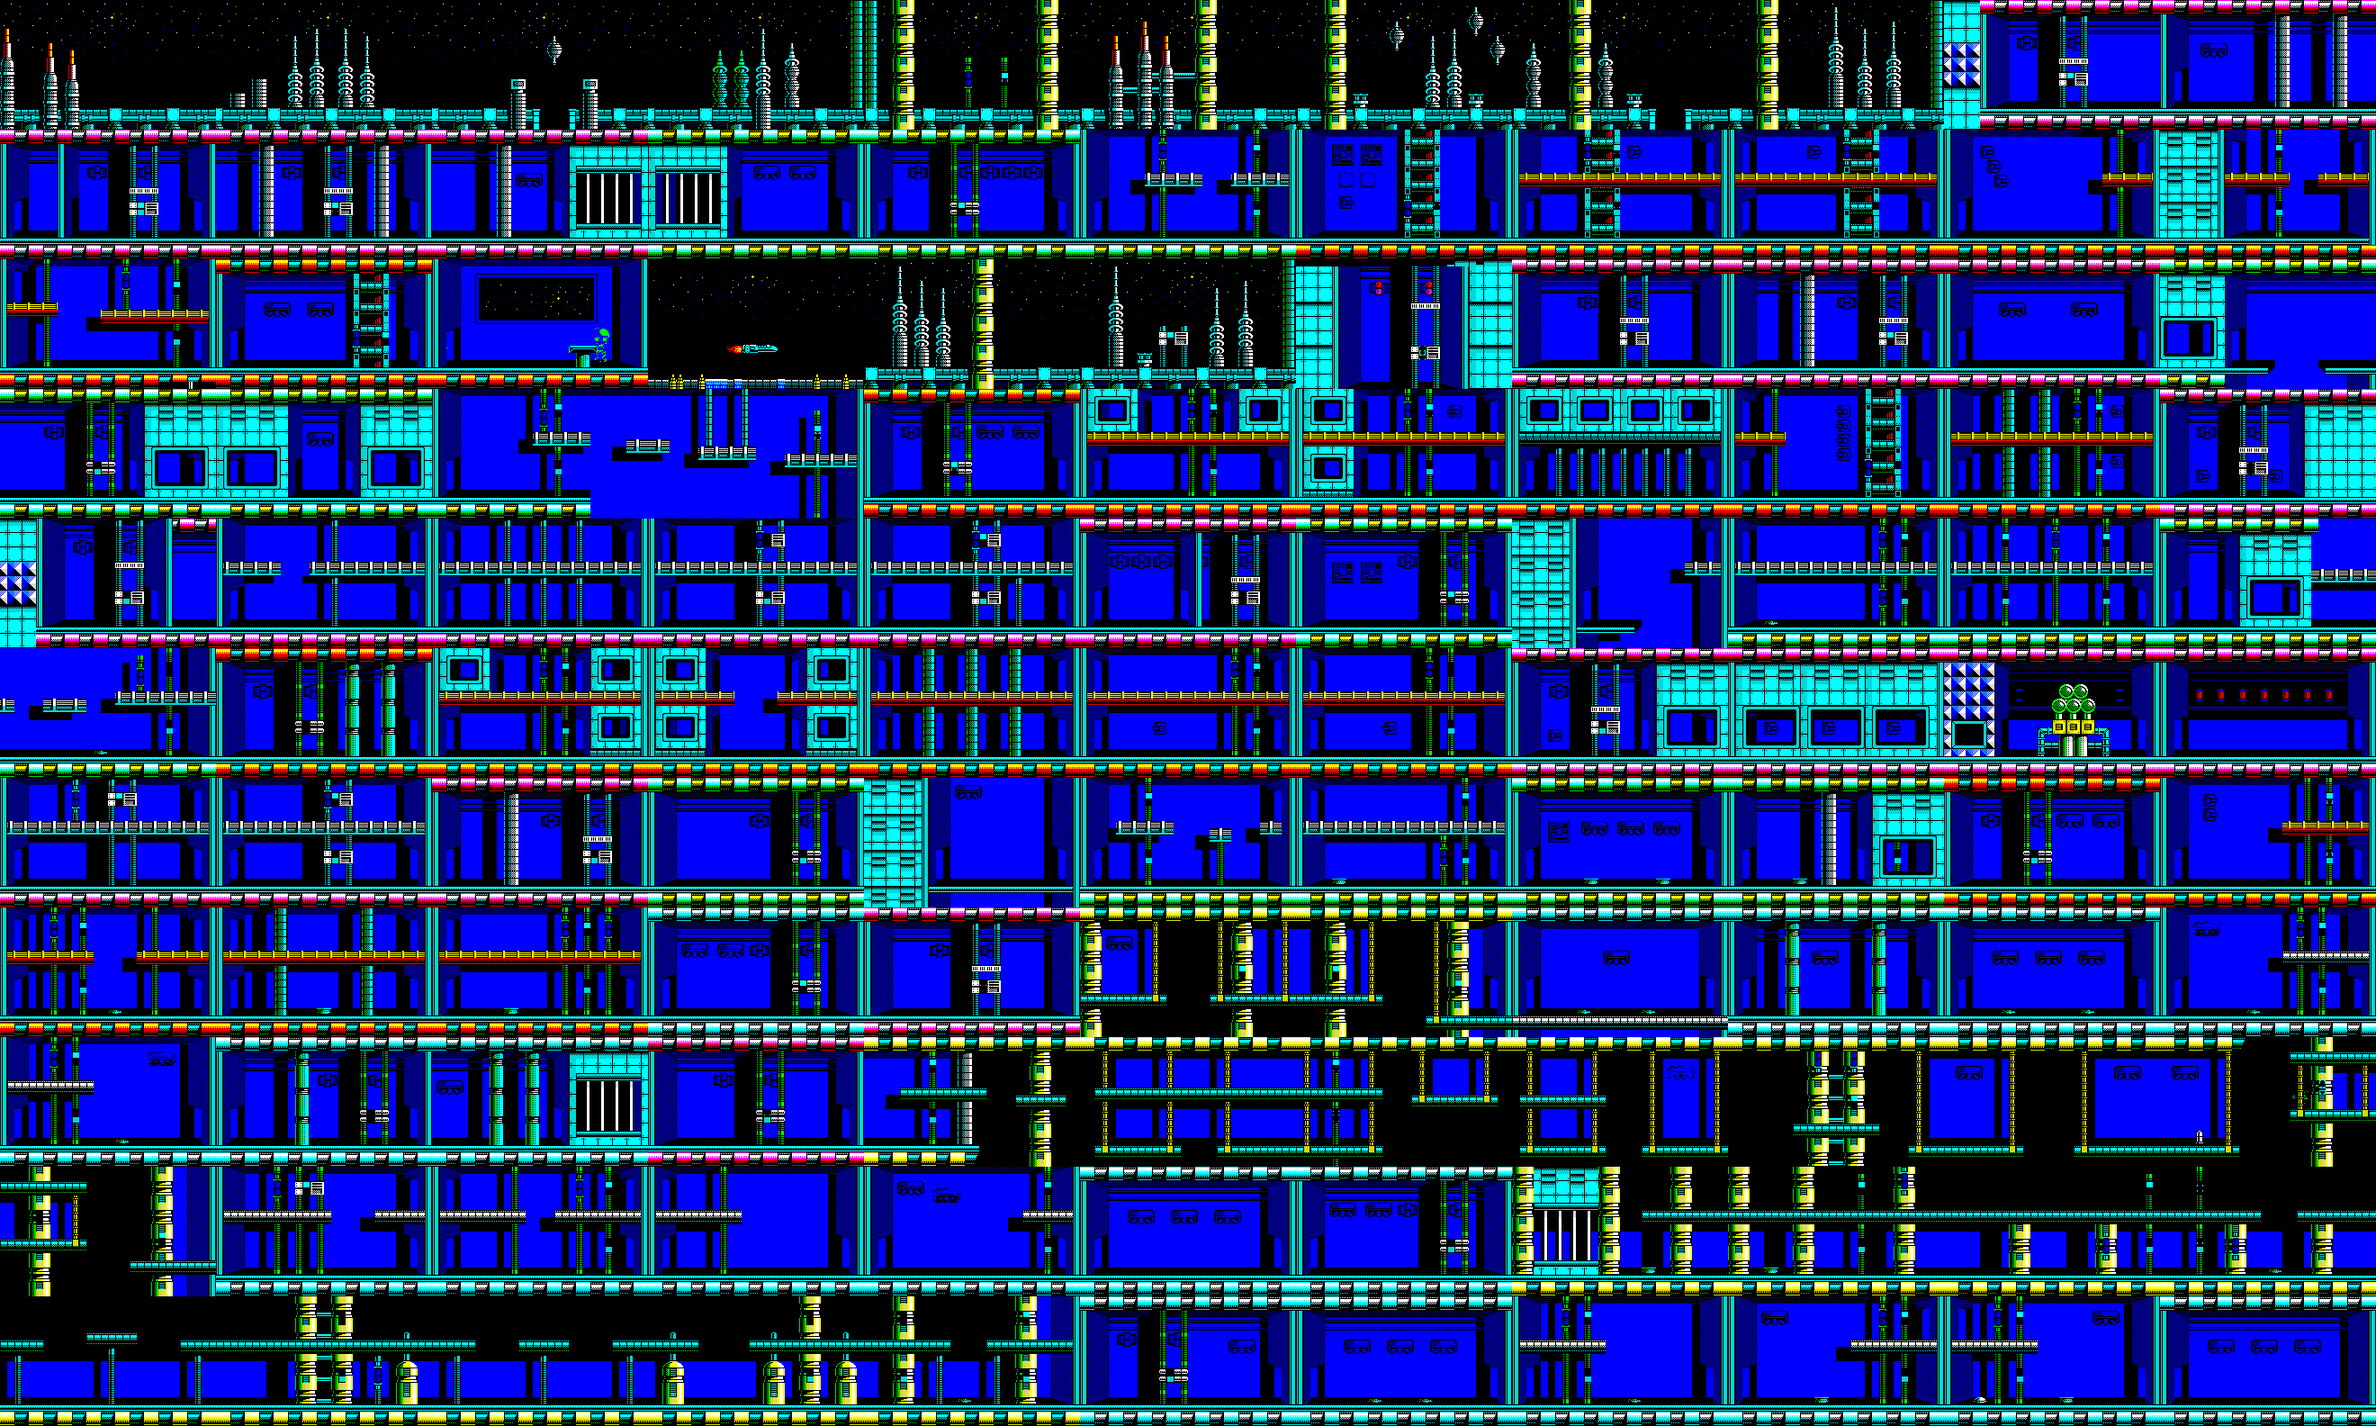
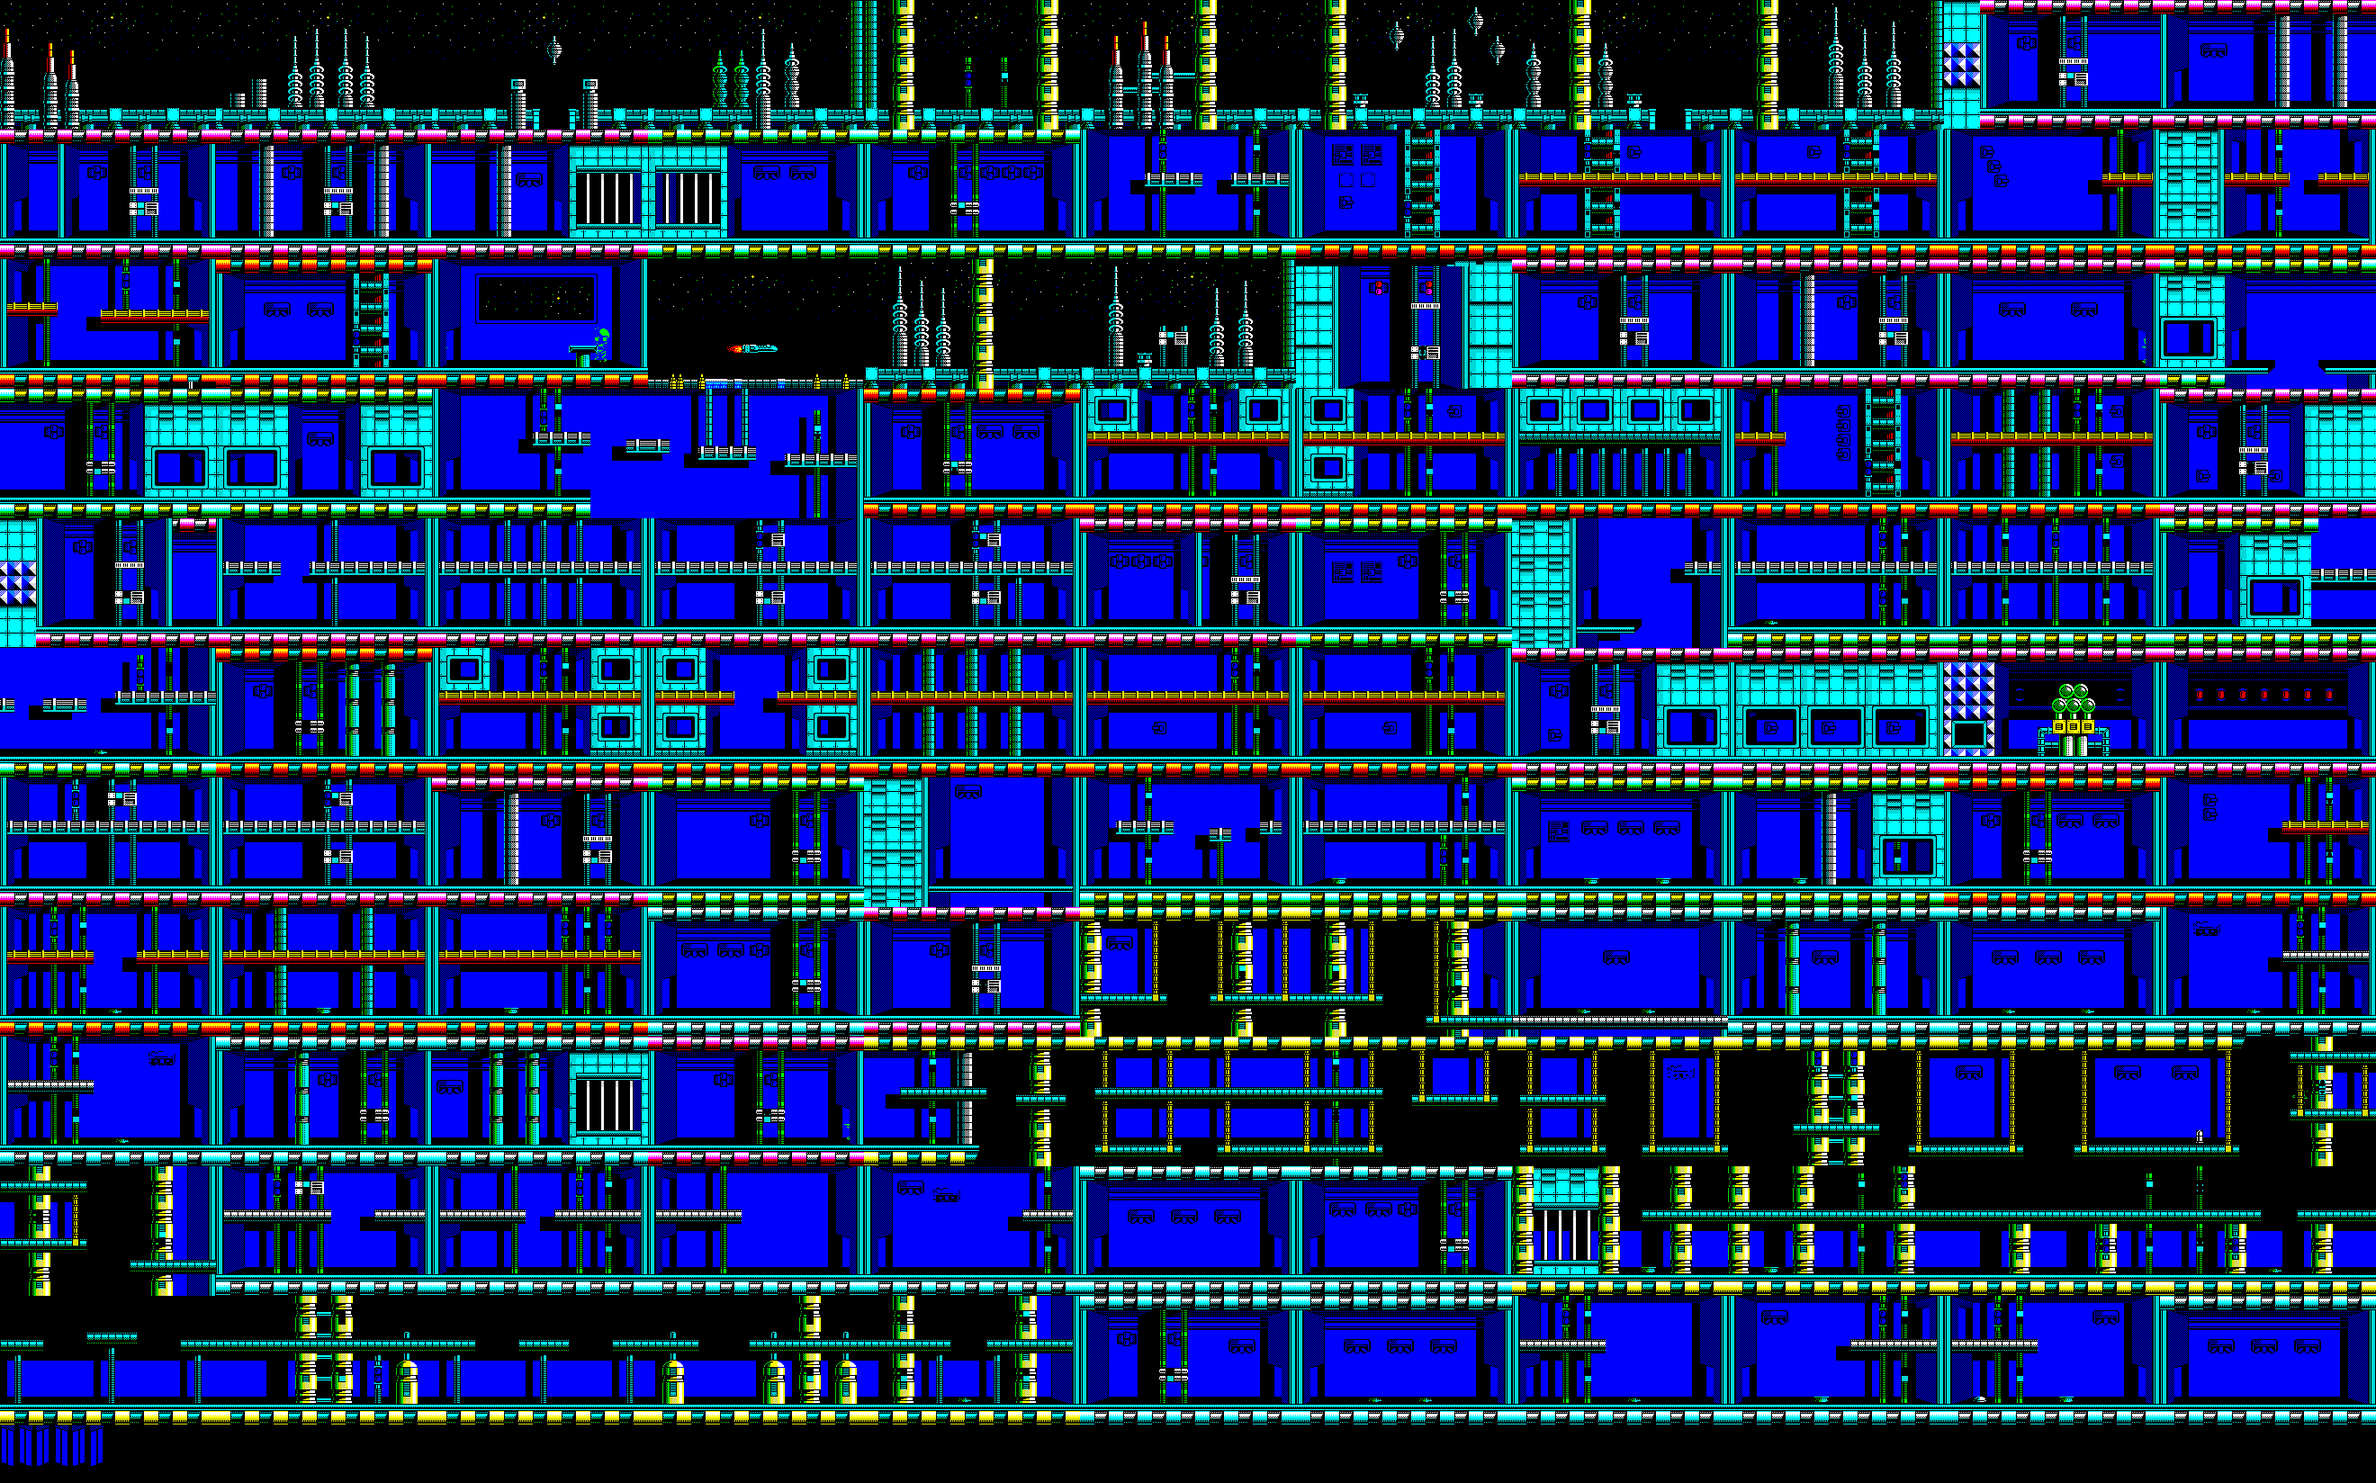
Shut doors are the original's slabs, and Treens only come in through open doorways
For the sector doors the original draws shut - 84, 209 and 159 - the slab
is lifted from a dump of the room with the door held, the cells of the
doorway that differ from a dump with it open; the backdrop shows the
doorway open, and the game lays the slab over it while the door holds.
The doors the original never shows - 185, 143, 142 - take the same slab
at their doorway. A Treen running into a room comes only through a
doorway on his floor that reaches the screen's edge, and never through a
door that is shut.

Claude-Session: https://claude.ai/code/session_01PcLjzQEJdDPtSgQwu11ALc

diff --git a/js/rooms_sheet.js b/js/rooms_sheet.js
@@ -1,2 +1,2 @@
 // generated by tools/make_rooms.py: where each room's backdrop lies in assets/rooms.png
-window.ROOMS_SHEET = {"image": "assets/rooms.png", "w": 240, "h": 144, "rooms": {"14": [0, 0], "15": [240, 0], "16": [480, 0], "17": [720, 0], "24": [960, 0], "25": [1200, 0], "26": [1440, 0], "27": [1680, 0], "28": [1920, 0], "46": [2160, 0], "47": [2400, 0], "48": [0, 144], "49": [240, 144], "50": [480, 144], "53": [720, 144], "54": [960, 144], "55": [1200, 144], "56": [1440, 144], "57": [1680, 144], "58": [1920, 144], "59": [2160, 144], "60": [2400, 144], "61": [0, 288], "62": [240, 288], "63": [480, 288], "75": [720, 288], "76": [960, 288], "77": [1200, 288], "78": [1440, 288], "81": [1680, 288], "83": [1920, 288], "84": [2160, 288], "85": [2400, 288], "86": [0, 432], "87": [240, 432], "88": [480, 432], "89": [720, 432], "90": [960, 432], "91": [1200, 432], "92": [1440, 432], "93": [1680, 432], "94": [1920, 432], "95": [2160, 432], "109": [2400, 432], "110": [0, 576], "111": [240, 576], "112": [480, 576], "113": [720, 576], "114": [960, 576], "115": [1200, 576], "116": [1440, 576], "117": [1680, 576], "118": [1920, 576], "119": [2160, 576], "120": [2400, 576], "121": [0, 720], "122": [240, 720], "123": [480, 720], "124": [720, 720], "125": [960, 720], "126": [1200, 720], "127": [1440, 720], "141": [1680, 720], "142": [1920, 720], "143": [2160, 720], "144": [2400, 720], "145": [0, 864], "146": [240, 864], "147": [480, 864], "148": [720, 864], "149": [960, 864], "150": [1200, 864], "151": [1440, 864], "152": [1680, 864], "153": [1920, 864], "154": [2160, 864], "155": [2400, 864], "156": [0, 1008], "157": [240, 1008], "158": [480, 1008], "159": [720, 1008], "177": [960, 1008], "184": [1200, 1008], "185": [1440, 1008], "186": [1680, 1008], "187": [1920, 1008], "188": [2160, 1008], "189": [2400, 1008], "190": [0, 1152], "191": [240, 1152], "192": [480, 1152], "209": [720, 1152], "210": [960, 1152], "211": [1200, 1152], "212": [1440, 1152], "213": [1680, 1152], "214": [1920, 1152], "215": [2160, 1152], "216": [2400, 1152], "217": [0, 1296], "218": [240, 1296], "219": [480, 1296], "220": [720, 1296], "221": [960, 1296], "222": [1200, 1296], "223": [1440, 1296], "241": [1680, 1296], "242": [1920, 1296], "243": [2160, 1296], "244": [2400, 1296], "245": [0, 1440], "246": [240, 1440], "247": [480, 1440], "248": [720, 1440], "249": [960, 1440], "250": [1200, 1440], "251": [1440, 1440], "252": [1680, 1440], "253": [1920, 1440], "254": [2160, 1440], "255": [2400, 1440]}};
+window.ROOMS_SHEET = {"image": "assets/rooms.png", "w": 240, "h": 144, "rooms": {"14": [0, 0], "15": [240, 0], "16": [480, 0], "17": [720, 0], "24": [960, 0], "25": [1200, 0], "26": [1440, 0], "27": [1680, 0], "28": [1920, 0], "46": [2160, 0], "47": [2400, 0], "48": [0, 144], "49": [240, 144], "50": [480, 144], "53": [720, 144], "54": [960, 144], "55": [1200, 144], "56": [1440, 144], "57": [1680, 144], "58": [1920, 144], "59": [2160, 144], "60": [2400, 144], "61": [0, 288], "62": [240, 288], "63": [480, 288], "75": [720, 288], "76": [960, 288], "77": [1200, 288], "78": [1440, 288], "81": [1680, 288], "83": [1920, 288], "84": [2160, 288], "85": [2400, 288], "86": [0, 432], "87": [240, 432], "88": [480, 432], "89": [720, 432], "90": [960, 432], "91": [1200, 432], "92": [1440, 432], "93": [1680, 432], "94": [1920, 432], "95": [2160, 432], "109": [2400, 432], "110": [0, 576], "111": [240, 576], "112": [480, 576], "113": [720, 576], "114": [960, 576], "115": [1200, 576], "116": [1440, 576], "117": [1680, 576], "118": [1920, 576], "119": [2160, 576], "120": [2400, 576], "121": [0, 720], "122": [240, 720], "123": [480, 720], "124": [720, 720], "125": [960, 720], "126": [1200, 720], "127": [1440, 720], "141": [1680, 720], "142": [1920, 720], "143": [2160, 720], "144": [2400, 720], "145": [0, 864], "146": [240, 864], "147": [480, 864], "148": [720, 864], "149": [960, 864], "150": [1200, 864], "151": [1440, 864], "152": [1680, 864], "153": [1920, 864], "154": [2160, 864], "155": [2400, 864], "156": [0, 1008], "157": [240, 1008], "158": [480, 1008], "159": [720, 1008], "177": [960, 1008], "184": [1200, 1008], "185": [1440, 1008], "186": [1680, 1008], "187": [1920, 1008], "188": [2160, 1008], "189": [2400, 1008], "190": [0, 1152], "191": [240, 1152], "192": [480, 1152], "209": [720, 1152], "210": [960, 1152], "211": [1200, 1152], "212": [1440, 1152], "213": [1680, 1152], "214": [1920, 1152], "215": [2160, 1152], "216": [2400, 1152], "217": [0, 1296], "218": [240, 1296], "219": [480, 1296], "220": [720, 1296], "221": [960, 1296], "222": [1200, 1296], "223": [1440, 1296], "241": [1680, 1296], "242": [1920, 1296], "243": [2160, 1296], "244": [2400, 1296], "245": [0, 1440], "246": [240, 1440], "247": [480, 1440], "248": [720, 1440], "249": [960, 1440], "250": [1200, 1440], "251": [1440, 1440], "252": [1680, 1440], "253": [1920, 1440], "254": [2160, 1440], "255": [2400, 1440]}, "doors": {"84:right": [0, 1584, 16, 48, 208, 72], "209:right": [20, 1584, 16, 48, 208, 72], "159:left": [40, 1584, 16, 48, 16, 72], "185:right": [60, 1584, 16, 48, 216, 72], "143:left": [80, 1584, 16, 48, 0, 72], "142:left": [100, 1584, 16, 48, 0, 72]}};

diff --git a/js/game.js b/js/game.js
@@ -212,14 +212,21 @@ function makeTreens(key, room) {
 }
 
 function spawnTreen(key, room) {
-  const feet = dan.y + DAN_H;
-  const level = room.platforms.filter((p) => Math.abs(p.y * 8 - feet) < 6 && p.x1 - p.x0 >= 5);
+  const danFeet = dan.y + DAN_H;
+  const level = room.platforms.filter((p) => Math.abs(p.y * 8 - danFeet) < 6 && p.x1 - p.x0 >= 5);
   const p = level.length ? level.reduce((a, b) => (b.x1 - b.x0 > a.x1 - a.x0 ? b : a)) : widestPlatformOf(room);
   if (!p) return;
   const x0 = p.x0 * 8, x1 = p.x1 * 8 - TREEN_W;
   if (x1 <= x0) return;
-  // in from the edge away from Dan, running
-  const x = dan.x + DAN_W / 2 < VIEW_W / 2 ? Math.min(x1, VIEW_W - TREEN_W) : Math.max(x0, 0);
+  // in from an edge away from Dan, running - but only through a doorway on
+  // this floor, and never through a door that is shut
+  const e = EXITS[key], feet = p.y * 8;
+  const doorAt = (list) => list.find((l) => l.feet == null || Math.abs(l.feet - feet) <= 14);   // on this floor, no stand-in
+  const way = { left: p.x0 === 0 && isOpen(doorAt(e.lefts)), right: p.x1 >= 29 && isOpen(doorAt(e.rights)) };
+  const farSide = dan.x + DAN_W / 2 < VIEW_W / 2 ? "right" : "left";
+  const side = way[farSide] ? farSide : way[farSide === "right" ? "left" : "right"] ? (farSide === "right" ? "left" : "right") : null;
+  if (!side) return;
+  const x = side === "right" ? Math.min(x1, VIEW_W - TREEN_W) : Math.max(x0, 0);
   treens.push({ id: state.treenSeq++, x, y: p.y * 8 - TREEN_H, x0, x1, dir: dan.x > x ? 1 : -1, anim: 0, dead: false, react: 0 });
   if (!state.alerted.has(key)) { state.alerted.add(key); say(tx(["INTRUDER ALERT !"]), 2.5); }
 }
@@ -962,6 +969,12 @@ function drawGates(ctx, key, room) {
     .concat((LEVEL.doors || []).filter((d) => d.from === key));
   for (const l of gates) {
     const open = isOpen(l);
+    // over the original's screen the shut door is the original's own slab
+    const door = state.backdrop && SHEETS.rooms && SHEETS.rooms.meta.doors && SHEETS.rooms.meta.doors[key + ":" + l.kind];
+    if (door) {
+      if (!open) { const [sx, sy, w, h, x, y] = door; ctx.drawImage(SHEETS.rooms.img, sx, sy, w, h, x, y, w, h); }
+      continue;
+    }
     if (l.kind === "left" || l.kind === "right") {
       const floor = platformsOf(room).filter((p) => p.y > 40).reduce((a, b) => (b.y > a.y ? b : a), { y: VIEW_H - 16 }).y;
       const x = l.kind === "right" ? VIEW_W - 16 : 0, y = floor - 40;

diff --git a/tools/make_rooms.py b/tools/make_rooms.py
@@ -164,6 +164,9 @@ def main():
     ap.add_argument("--screens", default="data/emu", help="where the cleaned screens go")
     ap.add_argument("--erase", default="", help="figures to wipe by shape, as FILE:r0:r1:c0:c1,... - a clean "
                          "dump and the cells a standing Dan or Treen fills in it; their mirrors are tried too")
+    ap.add_argument("--door", default="", help="a sector door as ROOM:SIDE[:SHUTFILE:OPENFILE],... - the cells of "
+                         "the doorway that differ between the two dumps are the door, and the backdrop takes the "
+                         "open ones; without dumps, the slab of the first door given for that side is put at the doorway")
     ap.add_argument("-o", "--out", default="assets/rooms.png")
     ap.add_argument("--index", default="js/rooms_sheet.js")
     args = ap.parse_args()
@@ -226,10 +229,63 @@ def main():
         x, y = (i % per_row) * 240, (i // per_row) * 144
         sheet.paste(im, (x, y))
         index[str(n)] = [x, y]
+    # the sector doors, shut: the original's slabs, drawn over the backdrop while the door holds
+    doors = {}
+    slab = {}                                            # a reference slab per side for doors the original never shows
+    for spec in filter(None, args.door.split(",")):
+        parts = spec.split(":")
+        room, side = parts[0], parts[1]
+        shut, opened = (parts[2], parts[3]) if len(parts) > 3 else (None, None)
+        n = int(room)
+        path = os.path.join(args.screens, f"room_{n}.scr")
+        to, ao = load(path)
+        band = range(24, 32) if side == "right" else range(0, 8)
+        cells = {}
+        if shut:
+            tc, ac = load(shut); tp, ap_ = load(opened)
+            for r in range(5, 18):
+                for c in band:
+                    if tc[r, c].tobytes() != tp[r, c].tobytes() or ac[r, c] != ap_[r, c]:
+                        cells[(r, c)] = (tc[r, c].copy(), int(ac[r, c]))
+            # the slab is the tallest run of differing cells: sprites and lamps fall away
+            cols = Counter(c for r, c in cells)
+            keep = {c for c, k in cols.items() if k >= 3}
+            cells = {rc: v for rc, v in cells.items() if rc[1] in keep}
+            if cells and side not in slab: slab[side] = cells
+            # the backdrop shows the doorway open, whatever the intersection made of it
+            for (r, c) in cells: to[r, c] = tp[r, c]; ao[r, c] = ap_[r, c]
+            save(path, to, ao)
+            x0, y0 = index[str(n)]
+            sheet.paste(Image.fromarray(rgb(to, ao, 1, 19, 1, 31)), (x0, y0))
+        else:
+            ref = slab.get(side)
+            if not ref: print(f"door {room} {side}: no reference slab yet", file=sys.stderr); continue
+            # the same slab, moved to this room's doorway: the two cells inside the wall
+            rows = sorted(set(r for r, c in ref)); refcols = sorted(set(c for r, c in ref))
+            at = (28, 29) if side == "right" else (1, 2)
+            for (r, c), v in ref.items():
+                cells[(r, at[refcols.index(c)] if refcols.index(c) < 2 else at[1])] = v
+        if not cells: print(f"door {room} {side}: nothing differs", file=sys.stderr); continue
+        rs = sorted(set(r for r, c in cells)); cs = sorted(set(c for r, c in cells))
+        r0, r1, c0, c1 = rs[0], rs[-1] + 1, cs[0], cs[-1] + 1
+        tiles = to.copy(); attr = ao.copy()
+        for (r, c), (t, a) in cells.items(): tiles[r, c] = t; attr[r, c] = a
+        doors[f"{room}:{side}"] = {"cells": cells, "box": (r0, r1, c0, c1), "img": Image.fromarray(rgb(tiles, attr, r0, r1, c0, c1))}
+    if doors:
+        extra = Image.new("RGB", (sheet.width, 64), (0, 0, 0))
+        x = 0; door_index = {}
+        for k, d in doors.items():
+            r0, r1, c0, c1 = d["box"]; im = d["img"]
+            extra.paste(im, (x, 0))
+            door_index[k] = [x, sheet.height, im.width, im.height, (c0 - 1) * 8, (r0 - 1) * 8]   # in the sheet; where in the view
+            x += im.width + 4
+        full = Image.new("RGB", (sheet.width, sheet.height + 64), (0, 0, 0)); full.paste(sheet, (0, 0)); full.paste(extra, (0, sheet.height))
+        sheet = full
+        print(f"{len(door_index)} doors: {', '.join(door_index)}")
     sheet.save(args.out, optimize=True)
     with open(args.index, "w") as f:
         f.write("// generated by tools/make_rooms.py: where each room's backdrop lies in assets/rooms.png\n")
-        f.write("window.ROOMS_SHEET = " + json.dumps({"image": "assets/rooms.png", "w": 240, "h": 144, "rooms": index}) + ";\n")
+        f.write("window.ROOMS_SHEET = " + json.dumps({"image": "assets/rooms.png", "w": 240, "h": 144, "rooms": index, "doors": doors and door_index or {}}) + ";\n")
     print(f"{len(index)} rooms from {sum(len(v) for v in caps.values())} captures -> {args.out}")
 
 

diff --git a/README.md b/README.md
@@ -106,6 +106,7 @@ python3 tools/build_level.py data/emu/graph.json data/emu/graph2.json data/emu/g
 python3 tools/make_sprites.py                               # renders in ./ -> assets/dan.png
 python3 tools/make_rooms.py DUMPDIR... --prefer MOVEDDIRS --parts-from data/emu/masks/part_148.scr \
     --erase data/emu/masks/dan_14.scr:11:16:3:6,data/emu/masks/treen_212.scr:10:15:1:4,data/emu/masks/treen_89.scr:6:10:20:23 \
+    --door 84:right:data/emu/doors/room_84_shut.scr:data/emu/doors/room_84_open.scr,209:right:...,159:left:...,185:right,143:left,142:left \
     -o assets/rooms.png                                     # the rooms from the original's screens, cleaned
 ```
 
